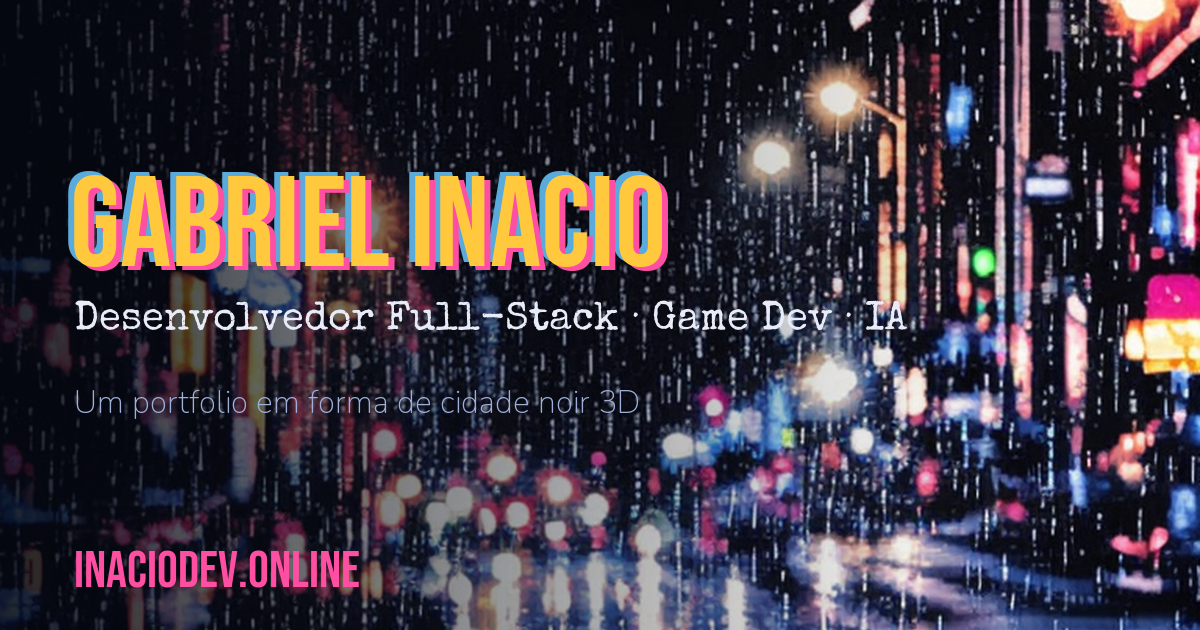
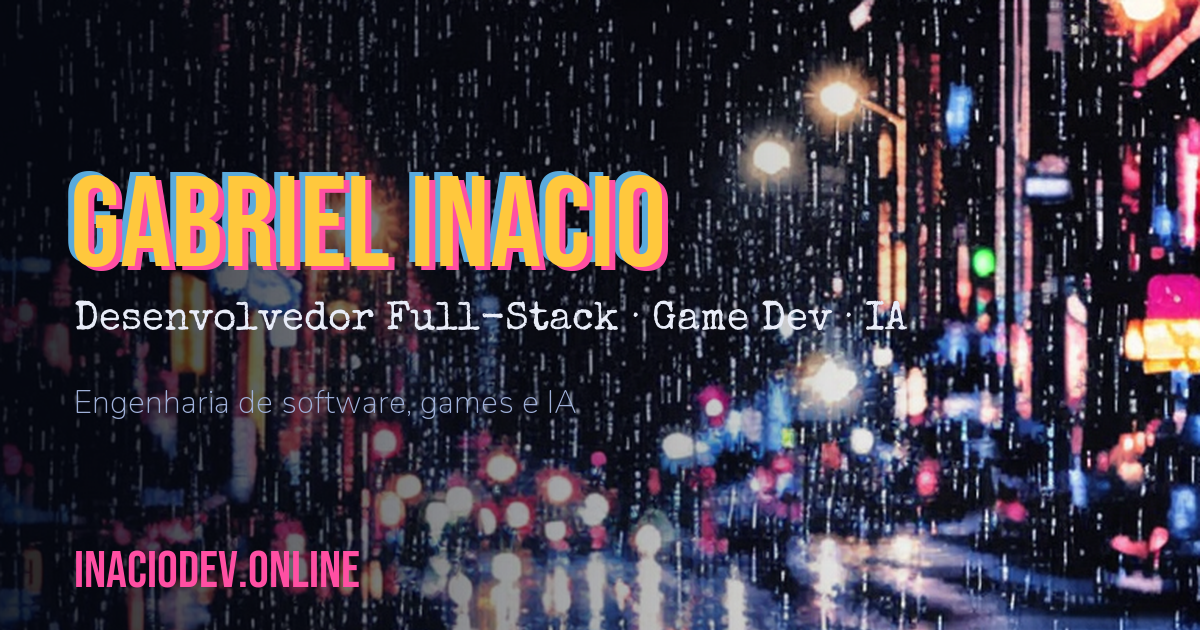
Página de carregamento e imagem de compartilhar sem 'portfolio': nome e áreas do Gabriel
Claude-Session: https://claude.ai/code/session_01WU8TdwGyomyxCuoEUUUd3U

Changed region(s): [[0.0617, 0.6032, 0.5242, 0.6635]]

diff --git a/game/web/index.html b/game/web/index.html
@@ -33,7 +33,7 @@
       <p class="lead">Mais de 4 anos transformando ideia em produto que chega em produção</p>
       <div class="cta"><button id="jogar">Entrar na cidade</button>
         <a class="ghost" href="#projetos">Ver projetos</a></div>
-      <p class="hint">Um portfolio em forma de cidade noir 3D. Prefere ler? Esta tudo aqui embaixo.</p>
+      <p class="hint">Entre na cidade noir em 3D. Prefere ler? Está tudo aqui embaixo.</p>
     </section>
     <section id="projetos"><h2>Projetos</h2><div class="grid">
       <a class="card" href="/projetos/rumor/" style="--neon:#ffc83d">

diff --git a/tools/seo_build.py b/tools/seo_build.py
@@ -135,7 +135,7 @@ def index_pt():
       <p class="lead">{tagline}</p>
       <div class="cta"><button id="jogar">Entrar na cidade</button>
         <a class="ghost" href="#projetos">Ver projetos</a></div>
-      <p class="hint">Um portfolio em forma de cidade noir 3D. Prefere ler? Esta tudo aqui embaixo.</p>
+      <p class="hint">Entre na cidade noir em 3D. Prefere ler? Está tudo aqui embaixo.</p>
     </section>
     <section id="projetos"><h2>Projetos</h2><div class="grid">{cards}</div></section>
     <section id="sobre"><h2>Sobre</h2>{bio}
@@ -298,7 +298,7 @@ def og_image():
     for off, c in [((-6, -4), (90, 170, 220)), ((6, 4), (255, 79, 163)), ((0, 0), (255, 200, 61))]:
         d.text((70 + off[0], 150 + off[1]), "GABRIEL INACIO", font=F("BebasNeue-Regular.ttf", 128), fill=c)
     d.text((74, 300), "Desenvolvedor Full-Stack · Game Dev · IA", font=F("SpecialElite-Regular.ttf", 40), fill=(232, 236, 248))
-    d.text((74, 380), "Um portfolio em forma de cidade noir 3D", font=F("Nunito-Var.ttf", 32), fill=(159, 176, 216))
+    d.text((74, 380), "Engenharia de software, games e IA", font=F("Nunito-Var.ttf", 32), fill=(159, 176, 216))
     d.text((74, 540), "inaciodev.online", font=F("BebasNeue-Regular.ttf", 52), fill=(255, 79, 163))
     img.save(os.path.join(WEB, "assets", "og.png"))
 
